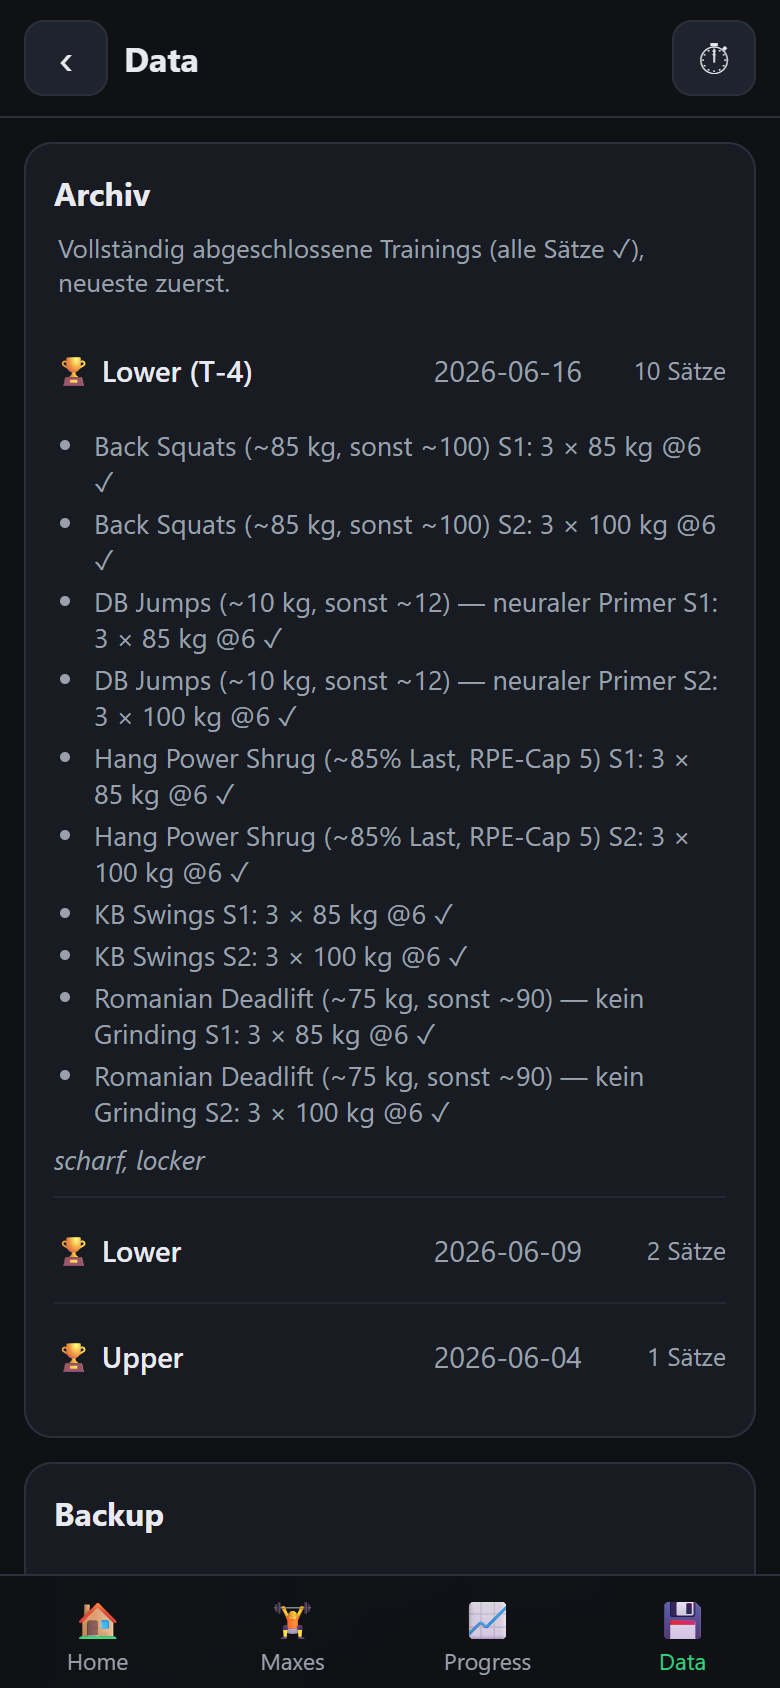
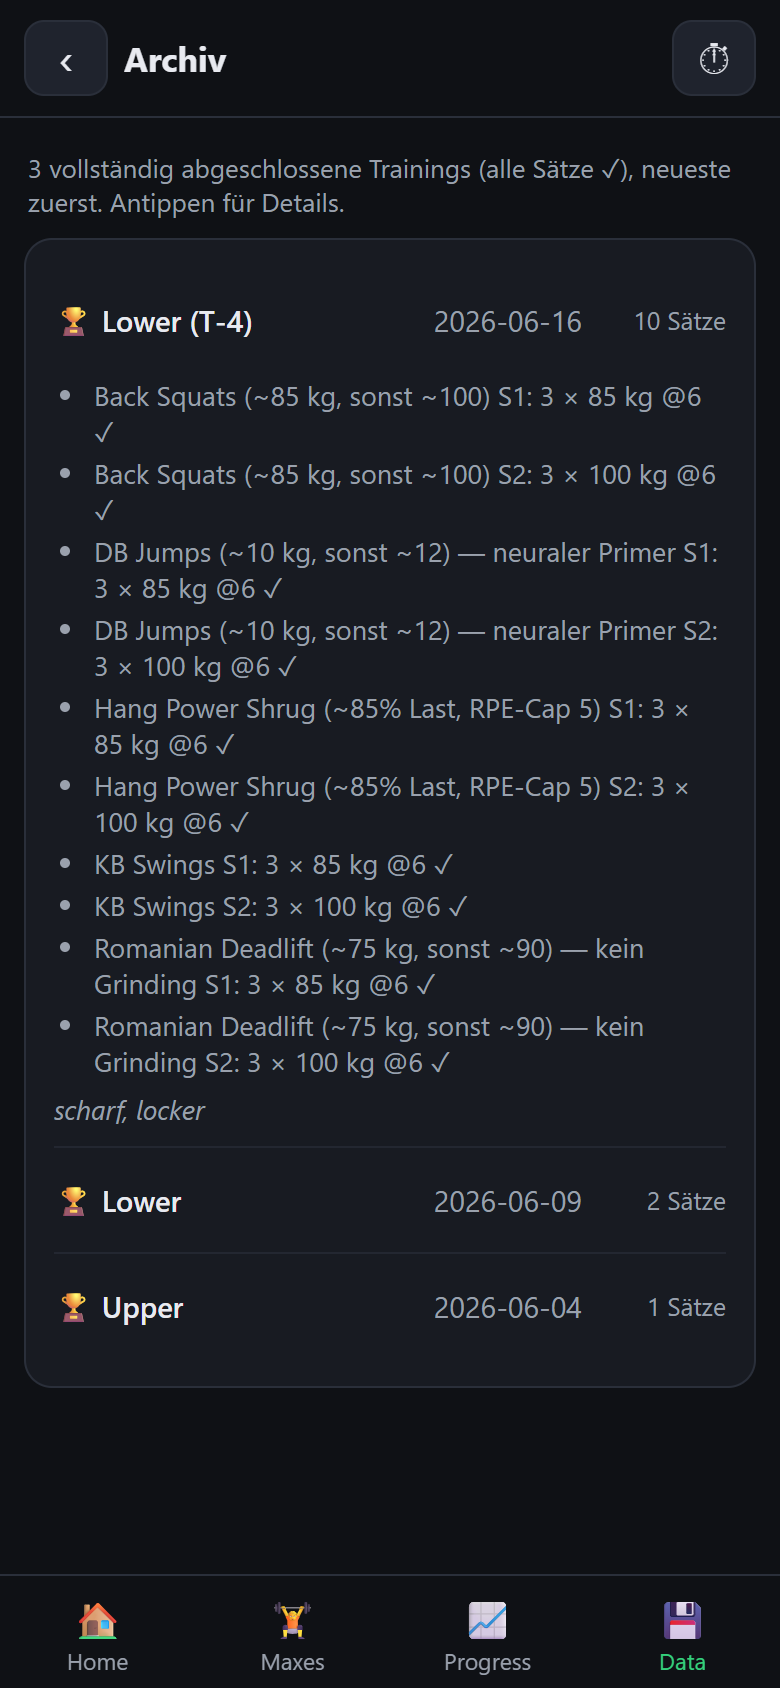
v1.4.0: Archiv as own page (#/archive) reached from a tappable row in Data tab

diff --git a/app.js b/app.js
@@ -139,12 +139,15 @@ function route() {
   if (parts[0] === 'maxes') return { view: 'maxes' };
   if (parts[0] === 'progress') return { view: 'progress' };
   if (parts[0] === 'data') return { view: 'data' };
+  if (parts[0] === 'archive') return { view: 'archive' };
   return { view: 'home' };
 }
 
 async function render() {
   const r = route();
-  $$('#bottomnav a').forEach(a => a.classList.toggle('active', a.dataset.view === r.view));
+  // 'archive' lives under the Data tab — keep that tab highlighted
+  const navView = r.view === 'archive' ? 'data' : r.view;
+  $$('#bottomnav a').forEach(a => a.classList.toggle('active', a.dataset.view === navView));
   const app = $('#app');
   app.scrollTop = 0;
   window.scrollTo(0, 0);
@@ -153,6 +156,7 @@ async function render() {
     else if (r.view === 'maxes') await renderMaxes(app);
     else if (r.view === 'progress') await renderProgress(app);
     else if (r.view === 'data') await renderData(app);
+    else if (r.view === 'archive') await renderArchive(app);
     else await renderHome(app);
   } catch (e) {
     app.innerHTML = `<div class="card error">Something went wrong: ${esc(e.message)}</div>`;
@@ -689,7 +693,7 @@ function completedSessions(sets, sessions) {
   return out;
 }
 
-function archiveCardHtml(sets, sessions) {
+function archiveItemsHtml(sets, sessions) {
   const done = completedSessions(sets, sessions);
   let items = '';
   for (const { sess, doneCount } of done) {
@@ -710,9 +714,20 @@ function archiveCardHtml(sets, sessions) {
         ${sess.notes ? `<p class="hist-notes">${esc(sess.notes)}</p>` : ''}
       </details>`;
   }
-  return `<div class="card">
-      <h2>Archiv</h2>
-      <p class="muted hint">Vollständig abgeschlossene Trainings (alle Sätze ✓), neueste zuerst.</p>
+  return { items, count: done.length };
+}
+
+/* Full-page archive (own route #/archive, reached from the Data tab). */
+async function renderArchive(app) {
+  $('#topbar-title').textContent = 'Archiv';
+  $('#topbar-back').hidden = false;
+
+  const [sets, sessions] = await Promise.all([dbGetAll('sets'), dbGetAll('sessions')]);
+  const { items, count } = archiveItemsHtml(sets, sessions);
+
+  app.innerHTML = `
+    <p class="muted hint">${count} vollständig abgeschlossene Trainings (alle Sätze ✓), neueste zuerst. Antippen für Details.</p>
+    <div class="card">
       ${items || '<p class="muted">Noch keine abgeschlossenen Trainings.</p>'}
     </div>`;
 }
@@ -726,9 +741,13 @@ async function renderData(app) {
   ]);
   const last = parseInt(localStorage.getItem('wl.lastExport') || '0', 10);
   const lastTxt = last ? new Date(last).toLocaleString() : 'never';
+  const archiveCount = completedSessions(sets, sessions).length;
 
   app.innerHTML = `
-    ${archiveCardHtml(sets, sessions)}
+    <a class="card nav-row" href="#/archive">
+      <span class="nav-row-main">🏆 Archiv</span>
+      <span class="nav-row-meta">${archiveCount} Trainings ›</span>
+    </a>
     <div class="card">
       <h2>Backup</h2>
       <p class="muted">Logged sets: ${sets.length} · sessions: ${sessions.length} · maxes: ${maxes.length} · bodyweight entries: ${bw.length}<br>Last export: ${esc(lastTxt)}</p>

diff --git a/tools/archive-test.js b/tools/archive-test.js
@@ -41,11 +41,20 @@ const check = (n, c, x) => { console.log(`  ${c ? 'PASS' : 'FAIL'}  ${n}${!c && 
     ]);
   });
 
+  // Data tab: archive is a clickable nav row showing the count, not the full list
   await page.goto('http://localhost:8123/#/data', { waitUntil: 'networkidle0' });
-  await page.waitForSelector('.archive-item, .card');
+  await page.waitForSelector('.nav-row');
+  const navRow = await page.$eval('.nav-row', a => ({ href: a.getAttribute('href'), text: a.textContent.replace(/\s+/g, ' ').trim() }));
+  check('Data tab shows clickable Archiv row with count', navRow.href === '#/archive' && navRow.text.includes('Archiv') && navRow.text.includes('2 Trainings'), JSON.stringify(navRow));
+  check('Data tab does NOT inline the archive list', (await page.$$('.archive-item')).length === 0);
 
-  const archiveFirst = await page.$eval('#app .card h2', h => h.textContent);
-  check('Archiv is the top section', archiveFirst === 'Archiv', archiveFirst);
+  // navigate to the dedicated archive page
+  await page.click('.nav-row');
+  await page.waitForSelector('.archive-item');
+  const archTitle = await page.$eval('#topbar-title', e => e.textContent);
+  const backShown = await page.$eval('#topbar-back', e => !e.hidden);
+  check('archive page: own route, title + back arrow', archTitle === 'Archiv' && backShown, `${archTitle} back=${backShown}`);
+  check('Data tab stays highlighted in bottom nav', await page.$eval('#bottomnav a[data-view="data"]', a => a.classList.contains('active')));
 
   const items = await page.$$eval('.archive-item summary', els => els.map(s => ({
     name: s.querySelector('.arc-name').textContent.trim(),

diff --git a/styles.css b/styles.css
@@ -218,6 +218,14 @@ button { font: inherit; color: inherit; }
   border-radius: 10px; min-height: 44px; padding: 0 8px; font-size: 15px; width: 100%; text-align: center;
 }
 
+.nav-row {
+  display: flex; align-items: center; justify-content: space-between;
+  text-decoration: none; color: var(--text); min-height: 52px;
+}
+.nav-row:active { background: var(--surface-2); }
+.nav-row-main { font-weight: 600; font-size: 16px; }
+.nav-row-meta { color: var(--muted); font-size: 14px; }
+
 .archive-item { border-bottom: 1px solid rgba(42, 47, 58, 0.6); padding: 4px 0; }
 .archive-item:last-child { border-bottom: none; }
 .archive-item summary {

diff --git a/tools/arc-shot.js b/tools/arc-shot.js
@@ -23,6 +23,9 @@ const CHROME = 'C:\\Program Files (x86)\\Google\\Chrome\\Application\\chrome.exe
     ]);
   });
   await page.goto('http://localhost:8123/#/data', { waitUntil: 'networkidle0' });
+  await page.waitForSelector('.nav-row');
+  await page.screenshot({ path: process.argv[2] + '/shot-data.png' });
+  await page.goto('http://localhost:8123/#/archive', { waitUntil: 'networkidle0' });
   await page.waitForSelector('.archive-item');
   await page.evaluate(() => { document.querySelector('.archive-item').open = true; });
   await new Promise(r => setTimeout(r, 200));

diff --git a/sw.js b/sw.js
@@ -1,7 +1,7 @@
 /* sw.js — offline-first service worker. Bump VERSION on every deploy. */
 'use strict';
 
-const VERSION = 'v1.3.0';
+const VERSION = 'v1.4.0';
 const CACHE = `workout-logger-${VERSION}`;
 
 const ASSETS = [
